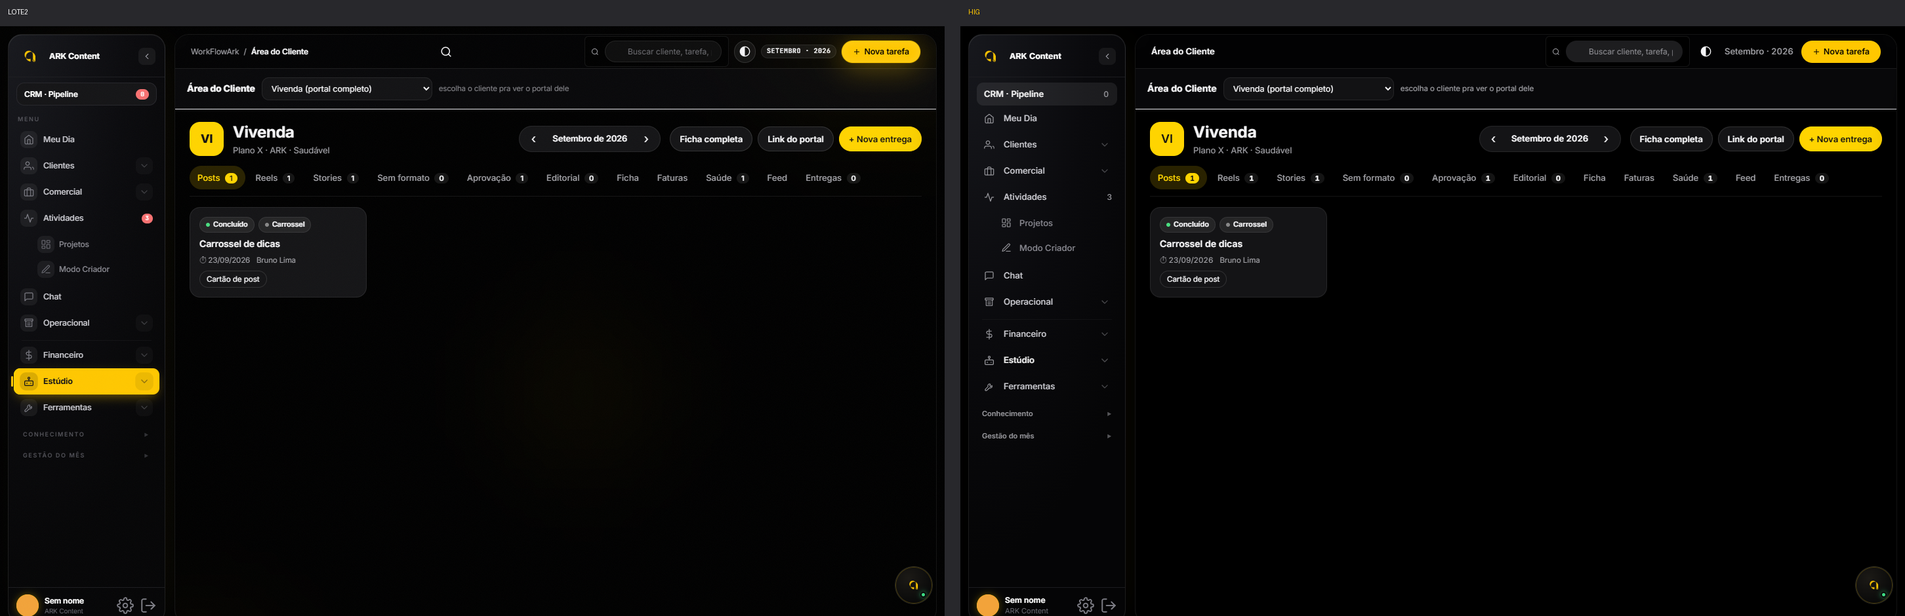
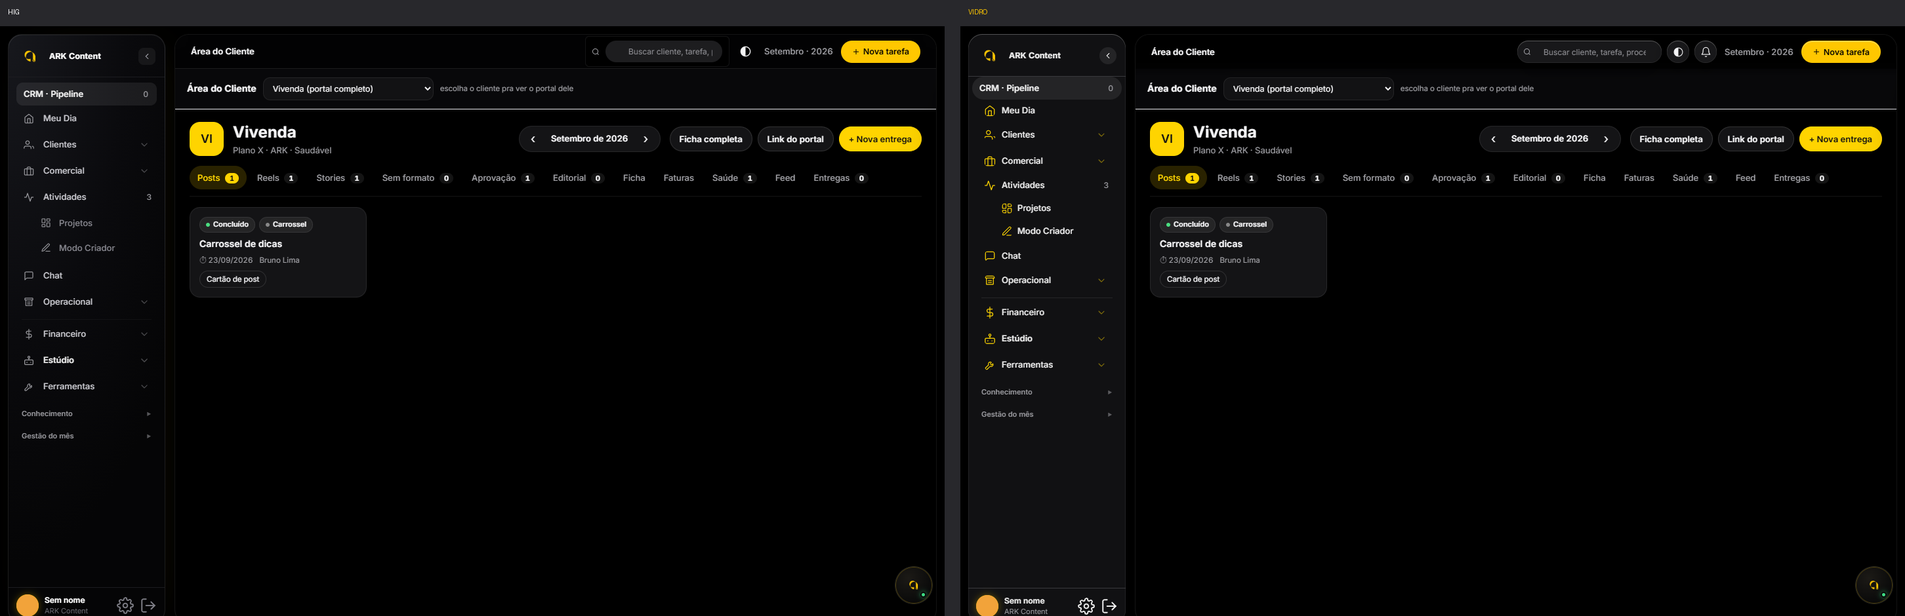
Liquid Glass na navegação e ícones no lugar de emoji, marcador 20260928b-liquid-glass
Referências oficiais da HIG (materials, sidebars, toolbars, sheets) em
Documents/WorkFlowArk-Next-2026-09-20/apple-ref.
- Sidebar em vidro flutuante que segue o tema (clara no claro, escura no
  escuro), linhas em cápsula, selecionado em cápsula amarela, ícones na cor
  de acento, traço 1,6.
- Barra do topo sem fundo, com desfoque de borda de rolagem; busca e
  botões de ícone em cápsulas de vidro; ação principal tingida.
- Sheet com cantos de 22 e fundo escurecido leve.
- workflowark-icones-20260928b.js troca o emoji que abre botões, rótulos
  de campo e cabeçalhos por símbolos próprios no traço do SF Symbols
  (a licença do SF Symbols não permite uso na web); texto de tarefas e
  posts não é tocado.
- Prova sem congelar animação (a saudação animada sumia na captura).
Teste deploy/teste-hig.py com regras de vidro, cápsula, saudação e
emoji: produção atual acusa 18 controles com emoji, branch fica em 0.
teste:mobile, tema, arrastar, confiabilidade, variantes, tokens e build OK.

Claude-Session: https://claude.ai/code/session_01KJbxYq7eWrqoC6iFvLdahp

diff --git a/public/workflowark-icones-20260928b.js b/public/workflowark-icones-20260928b.js
@@ -1,0 +1,133 @@
+/* WorkFlowArk · ícones no lugar de emoji na interface (28/09/2026).
+   HIG (icons, sf-symbols, buttons): ícone de interface é símbolo monocromático, de traço e peso consistentes, na cor
+   do texto; emoji fica só em conteúdo escrito por gente. SF Symbols não pode ser usado na web (licença da Apple),
+   então estes desenhos são próprios, no mesmo espírito: grade 24, traço 1.7, pontas e cantos arredondados.
+   Troca só o emoji que ABRE o texto de controles e rótulos (botão, rótulo de campo, cabeçalho de tabela),
+   nunca o texto de tarefas, posts ou mensagens. Roda no carregamento e em cada mudança da tela. */
+(function () {
+  'use strict';
+  var P = {
+    check: 'M5 12.5l4.5 4.5L19 7.5',
+    xmark: 'M6.5 6.5l11 11M17.5 6.5l-11 11',
+    play: '<path d="M8 5.8v12.4a.8.8 0 0 0 1.2.7l9.6-6.2a.8.8 0 0 0 0-1.4L9.2 5.1A.8.8 0 0 0 8 5.8z" fill="currentColor" stroke="none"/>',
+    pause: 'M9 5.5v13M15 5.5v13',
+    stop: '<rect x="6.5" y="6.5" width="11" height="11" rx="2" fill="currentColor" stroke="none"/>',
+    arrowCw: 'M19.5 12a7.5 7.5 0 1 1-2.2-5.3M19.5 4.5v4.2h-4.2',
+    arrowCcw: 'M4.5 12a7.5 7.5 0 1 0 2.2-5.3M4.5 4.5v4.2h4.2',
+    paperclip: 'M16.5 7.5l-7.3 7.3a2.2 2.2 0 0 0 3.1 3.1l7.4-7.4a4.2 4.2 0 0 0-6-6l-7.6 7.6a6.2 6.2 0 0 0 8.8 8.8l6-6',
+    film: '<rect x="3.5" y="5" width="17" height="14" rx="2.5"/><path d="M8 5v14M16 5v14M3.5 9.7H8M3.5 14.3H8M16 9.7h4.5M16 14.3h4.5"/>',
+    video: '<rect x="3" y="6.5" width="12.5" height="11" rx="2.5"/><path d="M15.5 10.5l5-3v9l-5-3"/>',
+    pencil: 'M4.5 19.5l1-4L15.8 5.2a2 2 0 0 1 2.9 0l.1.1a2 2 0 0 1 0 2.9L8.5 18.5z M13.8 7.2l3 3',
+    sparkles: 'M11 3.5l1.6 4.6 4.6 1.6-4.6 1.6L11 16l-1.6-4.7L4.8 9.7l4.6-1.6z M18 14.5l.8 2.2 2.2.8-2.2.8-.8 2.2-.8-2.2-2.2-.8 2.2-.8z',
+    speaker: 'M4.5 9.5h3.3l4.2-3.7v12.4l-4.2-3.7H4.5z M15.5 9.2a4 4 0 0 1 0 5.6 M18 6.8a7.3 7.3 0 0 1 0 10.4',
+    checkCircle: '<circle cx="12" cy="12" r="8.5"/><path d="M8.3 12.3l2.6 2.6 5-5.2"/>',
+    heart: 'M12 19.5s-7-4.4-7-9.6A3.9 3.9 0 0 1 12 7.6a3.9 3.9 0 0 1 7 2.3c0 5.2-7 9.6-7 9.6z',
+    download: 'M12 4.5v10M7.8 10.5l4.2 4.2 4.2-4.2M5 16v2.5A1.5 1.5 0 0 0 6.5 20h11a1.5 1.5 0 0 0 1.5-1.5V16',
+    upload: 'M12 15V5M7.8 9.2L12 5l4.2 4.2M5 16v2.5A1.5 1.5 0 0 0 6.5 20h11a1.5 1.5 0 0 0 1.5-1.5V16',
+    chart: 'M4.5 19.5h15M7.5 16v-4.5M12 16V8M16.5 16V5.5',
+    phone: '<rect x="7" y="3" width="10" height="18" rx="2.5"/><path d="M11 17.5h2"/>',
+    bell: 'M6.5 16v-5a5.5 5.5 0 0 1 11 0v5l1.5 2h-14z M10.2 20.2a2 2 0 0 0 3.6 0',
+    warning: 'M10.3 5.1a2 2 0 0 1 3.4 0l7 12a2 2 0 0 1-1.7 3H5a2 2 0 0 1-1.7-3z M12 10v3.5 M12 16.8h.01',
+    calendar: '<rect x="4" y="5.5" width="16" height="14.5" rx="2.5"/><path d="M4 10h16M8.5 3.5v4M15.5 3.5v4"/>',
+    clipboard: '<rect x="8.5" y="3.5" width="7" height="3.5" rx="1"/><path d="M8.5 5.2H6.8A1.8 1.8 0 0 0 5 7v12.2A1.8 1.8 0 0 0 6.8 21h10.4a1.8 1.8 0 0 0 1.8-1.8V7a1.8 1.8 0 0 0-1.8-1.8h-1.7"/>',
+    globe: '<circle cx="12" cy="12" r="8.5"/><path d="M3.5 12h17M12 3.5c2.5 2.6 3.5 5.4 3.5 8.5s-1 5.9-3.5 8.5c-2.5-2.6-3.5-5.4-3.5-8.5s1-5.9 3.5-8.5z"/>',
+    flame: 'M12 20.5a6 6 0 0 0 6-6c0-3.6-2.4-5.8-3.8-8.7-.8 1.9-1.8 2.8-2.9 3.2.2-2-.6-3.8-1.9-5.5-.6 4.2-5.4 6.2-5.4 11a6 6 0 0 0 6 6z',
+    link: 'M10.2 13.8a3.8 3.8 0 0 0 5.4 0l3-3a3.8 3.8 0 0 0-5.4-5.4l-1.1 1.1 M13.8 10.2a3.8 3.8 0 0 0-5.4 0l-3 3a3.8 3.8 0 0 0 5.4 5.4l1.1-1.1',
+    arrowUpRight: 'M7 17L17 7M9 7h8v8',
+    arrowRight: 'M5 12h14M13 6l6 6-6 6',
+    arrowLeft: 'M19 12H5M11 6l-6 6 6 6',
+    arrowTurn: 'M5 7v4a4 4 0 0 0 4 4h10M15 11l4 4-4 4',
+    bulb: 'M9.5 17.5h5M10.5 20.5h3M12 3.5a5.8 5.8 0 0 0-3.4 10.5c.6.5.9 1.1.9 1.8v.2h5v-.2c0-.7.3-1.3.9-1.8A5.8 5.8 0 0 0 12 3.5z',
+    doc: 'M7 3.5h6.5L18.5 8.5v12H7A1.5 1.5 0 0 1 5.5 19V5A1.5 1.5 0 0 1 7 3.5z M13.5 3.5v5h5',
+    send: 'M20.5 3.5L3.5 10.8l6.8 2.9 2.9 6.8z M10.3 13.7l4.5-4.5',
+    photo: '<rect x="3.5" y="5" width="17" height="14" rx="2.5"/><path d="M3.5 16l5-5 4.2 4.2 2.8-2.8 5 5"/><circle cx="15.5" cy="9" r="1.2"/>',
+    camera: 'M4 8.5h3l1.6-2.5h6.8L17 8.5h3a1 1 0 0 1 1 1V19a1 1 0 0 1-1 1H4a1 1 0 0 1-1-1V9.5a1 1 0 0 1 1-1z M12 16.8a3.3 3.3 0 1 0 0-6.6 3.3 3.3 0 0 0 0 6.6z',
+    envelope: '<rect x="3.5" y="5.5" width="17" height="13" rx="2.5"/><path d="M4 7l8 6 8-6"/>',
+    bubble: 'M5.5 5h13A1.5 1.5 0 0 1 20 6.5v8a1.5 1.5 0 0 1-1.5 1.5H10l-4.5 3.5V16A1.5 1.5 0 0 1 4 14.5v-8A1.5 1.5 0 0 1 5.5 5z',
+    pin: 'M12 20.5s-6-5.3-6-10.5a6 6 0 0 1 12 0c0 5.2-6 10.5-6 10.5z M12 12a2 2 0 1 0 0-4 2 2 0 0 0 0 4z',
+    timer: '<circle cx="12" cy="13" r="7.5"/><path d="M12 9v4.3l2.8 1.8M9.5 3h5"/>',
+    star: 'M12 4l2.4 5 5.4.6-4 3.7 1.1 5.4L12 16l-4.9 2.7 1.1-5.4-4-3.7 5.4-.6z',
+    mic: '<rect x="9" y="3.5" width="6" height="11" rx="3"/><path d="M5.5 11.5a6.5 6.5 0 0 0 13 0M12 18v2.5"/>',
+    wrench: 'M14.7 5.3a4.5 4.5 0 0 0 5 5.9l-8.9 8.9a2.1 2.1 0 0 1-3-3l8.9-8.9a4.5 4.5 0 0 0-2-2.9z',
+    list: 'M8.5 6.5h11M8.5 12h11M8.5 17.5h11M4.5 6.5h.01M4.5 12h.01M4.5 17.5h.01',
+    cart: 'M3.5 4.5h2l2.3 10.5h10.4L20.5 8H6.6 M9.5 19.5h.01M17 19.5h.01',
+    scale: 'M12 4.5v15M7 19.5h10M5 7.5h14M5 7.5l-2.5 5.5a2.5 2.5 0 0 0 5 0zM19 7.5l-2.5 5.5a2.5 2.5 0 0 0 5 0z',
+    printer: 'M7 9V4.5h10V9 M5.5 9h13A1.5 1.5 0 0 1 20 10.5v5a1.5 1.5 0 0 1-1.5 1.5H17 M7 17H5.5A1.5 1.5 0 0 1 4 15.5v-5A1.5 1.5 0 0 1 5.5 9 M7 14h10v6H7z',
+    person: 'M12 12a4 4 0 1 0 0-8 4 4 0 0 0 0 8z M4.5 20.5a7.5 7.5 0 0 1 15 0',
+    tag: 'M3.5 12.2V4.5a1 1 0 0 1 1-1h7.7l8.3 8.3a1.4 1.4 0 0 1 0 2l-6.4 6.4a1.4 1.4 0 0 1-2 0z M8 8h.01',
+    flag: 'M5.5 20.5V4.5 M5.5 5h11.5l-2.2 4 2.2 4H5.5',
+    building: 'M5 20.5V5.5A1.5 1.5 0 0 1 6.5 4h7A1.5 1.5 0 0 1 15 5.5v15 M15 9.5h3A1.5 1.5 0 0 1 19.5 11v9.5 M3.5 20.5h17 M8.5 8h3M8.5 11.5h3M8.5 15h3',
+    target: '<circle cx="12" cy="12" r="8.5"/><circle cx="12" cy="12" r="4.5"/><circle cx="12" cy="12" r=".8" fill="currentColor"/>',
+    compass: '<circle cx="12" cy="12" r="8.5"/><path d="M15.5 8.5l-2 5-5 2 2-5z"/>',
+    puzzle: 'M10 4.5a2 2 0 0 1 4 0V6h3.5A1.5 1.5 0 0 1 19 7.5V11h-1.5a2 2 0 0 0 0 4H19v3.5a1.5 1.5 0 0 1-1.5 1.5H14v-1.5a2 2 0 0 0-4 0V20H6.5A1.5 1.5 0 0 1 5 18.5V15h1.5a2 2 0 0 0 0-4H5V7.5A1.5 1.5 0 0 1 6.5 6H10z',
+    circle: '<circle cx="12" cy="12" r="4.5" fill="currentColor" stroke="none"/>',
+    circleOpen: '<circle cx="12" cy="12" r="7.5"/><circle cx="12" cy="12" r="2.5" fill="currentColor" stroke="none"/>',
+    trophy: 'M8 4.5h8v5a4 4 0 0 1-8 0z M8 6H4.5v1.5A3 3 0 0 0 8 10.5 M16 6h3.5v1.5A3 3 0 0 1 16 10.5 M12 13.5v3.5 M8.5 20h7l-.5-3h-6z',
+    number: 'M9.5 4.5l-2 15M16.5 4.5l-2 15M5 9h14.5M4.5 15h14.5'
+  };
+  // emoji que abre o texto -> [símbolo, tom opcional]
+  var M = {
+    '✓': 'check', '✔': 'check', '☑': 'checkCircle', '✅': 'checkCircle', '✕': 'xmark', '✖': 'xmark', '❌': 'xmark',
+    '▶': 'play', '⏸': 'pause', '⏹': 'stop', '↻': 'arrowCw', '🔄': 'arrowCw', '↺': 'arrowCcw',
+    '📎': 'paperclip', '🎬': 'film', '📹': 'video', '✍': 'pencil', '✎': 'pencil', '🧠': 'sparkles', '✨': 'sparkles', '✦': 'sparkles',
+    '🔊': 'speaker', '💾': 'download', '⬇': 'download', '⬆': 'upload', '📈': 'chart', '📊': 'chart', '📲': 'phone', '📱': 'phone',
+    '🔔': 'bell', '⚠': 'warning', '📅': 'calendar', '🗓': 'calendar', '📋': 'clipboard', '🌐': 'globe', '🔥': 'flame', '🔗': 'link',
+    '↗': 'arrowUpRight', '➜': 'arrowRight', '➤': 'send', '🔜': 'arrowRight', '←': 'arrowLeft', '↪': 'arrowTurn', '💡': 'bulb',
+    '📄': 'doc', '🚀': 'send', '📷': 'camera', '🖼': 'photo', '✉': 'envelope', '💬': 'bubble', '📌': 'pin', '📍': 'pin',
+    '⏱': 'timer', '🏆': 'trophy', '🏅': 'trophy', '⭐': 'star', '🎙': 'mic', '🛠': 'wrench', '☰': 'list', '🛒': 'cart', '⚖': 'scale',
+    '🖨': 'printer', '💚': ['heart', 'var(--green)'], '👤': 'person', '🏷': 'tag', '🚩': ['flag', 'var(--red)'], '🏢': 'building',
+    '🎯': 'target', '🧭': 'compass', '🧩': 'puzzle', '◎': 'circleOpen',
+    '🟢': ['circle', 'var(--green)'], '🟡': ['circle', 'var(--yel)'], '🔴': ['circle', 'var(--red)'], '⚫': ['circle', 'var(--mute)']
+  };
+  var chaves = Object.keys(M).sort(function (a, b) { return b.length - a.length; });
+  var RE = new RegExp('^(\\s*)(' + chaves.map(function (k) { return k.replace(/[.*+?^${}()|[\]\\]/g, '\\$&'); }).join('|') + ')\\uFE0F?\\s*');
+  var ALVO = 'button,label,summary,[role=button],th,h4,.tkl,.tb-btn,.dec-btn,.icobtn,.gbtn,.set-sect-t,.btn,.cc-btn,.set-tab';
+  var NS = 'http://www.w3.org/2000/svg';
+
+  function simbolo(nome, tom) {
+    var s = document.createElementNS(NS, 'svg');
+    s.setAttribute('viewBox', '0 0 24 24'); s.setAttribute('aria-hidden', 'true'); s.setAttribute('class', 'sfi');
+    s.setAttribute('fill', 'none'); s.setAttribute('stroke', 'currentColor'); s.setAttribute('stroke-width', '1.7');
+    s.setAttribute('stroke-linecap', 'round'); s.setAttribute('stroke-linejoin', 'round');
+    var d = P[nome];
+    s.innerHTML = d.charAt(0) === '<' ? d : '<path d="' + d + '"/>';
+    if (tom) s.style.color = tom;
+    return s;
+  }
+  function trocar(el) {
+    if (!el || el.nodeType !== 1 || el.closest('svg')) return;
+    var n = el.firstChild;
+    while (n && n.nodeType === 3 && !n.nodeValue.trim()) n = n.nextSibling;
+    if (!n || n.nodeType !== 3) return;
+    var m = n.nodeValue.match(RE);
+    if (!m) return;
+    var alvo = M[m[2]], nome = Array.isArray(alvo) ? alvo[0] : alvo, tom = Array.isArray(alvo) ? alvo[1] : null;
+    n.nodeValue = n.nodeValue.slice(m[0].length);
+    el.insertBefore(simbolo(nome, tom), n);
+    if (!n.nodeValue) n.nodeValue = '';
+  }
+  function varrer(raiz) {
+    if (!raiz || raiz.nodeType !== 1) return;
+    if (raiz.matches && raiz.matches(ALVO)) trocar(raiz);
+    var l = raiz.querySelectorAll ? raiz.querySelectorAll(ALVO) : [];
+    for (var i = 0; i < l.length; i++) trocar(l[i]);
+  }
+  var pend = [], agendado = false;
+  function processar() {
+    agendado = false; var lote = pend; pend = [];
+    for (var i = 0; i < lote.length; i++) varrer(lote[i]);
+  }
+  function iniciar() {
+    varrer(document.body);
+    new MutationObserver(function (ms) {
+      for (var i = 0; i < ms.length; i++) {
+        var m = ms[i];
+        if (m.type === 'characterData') { if (m.target.parentElement) pend.push(m.target.parentElement); }
+        else for (var j = 0; j < m.addedNodes.length; j++) { var a = m.addedNodes[j]; pend.push(a.nodeType === 1 ? a : a.parentElement); }
+      }
+      if (pend.length && !agendado) { agendado = true; requestAnimationFrame(processar); }
+    }).observe(document.body, { childList: true, subtree: true, characterData: true });
+  }
+  window.wfaIconeTrocar = varrer;
+  if (document.readyState === 'loading') document.addEventListener('DOMContentLoaded', iniciar); else iniciar();
+})();

diff --git a/public/workflowark-vidro-20260928b.css b/public/workflowark-vidro-20260928b.css
@@ -1,0 +1,84 @@
+/* WorkFlowArk · Liquid Glass na camada de navegação (28/09/2026).
+   Referências oficiais em Documents/WorkFlowArk-Next-2026-09-20/apple-ref (HIG materials, sidebars, toolbars, sheets).
+   Regras da Apple aplicadas: vidro só em navegação e controles, nunca no conteúdo; sidebar flutuante em vidro que
+   segue o tema; barra do topo sem fundo, com controles agrupados em cápsulas de vidro e o conteúdo passando por baixo;
+   item selecionado em cápsula na cor de acento; ícones da sidebar na cor de acento; ação principal tingida.
+   Carregada depois da camada HIG. Teste: python deploy/teste-hig.py */
+
+/* ---------- Sidebar: painel de vidro flutuante ---------- */
+:is(body.aura-dark,body.aura-light) .side{
+  background:var(--glass-side)!important;
+  -webkit-backdrop-filter:var(--glass-blur)!important;backdrop-filter:var(--glass-blur)!important;
+  box-shadow:var(--glass-rim),var(--glass-shadow)!important;
+  border:0!important;border-radius:22px!important;color:var(--side-txt)!important}
+:is(body.aura-dark,body.aura-light) .side :is(.navitem,.subitem,.nm,.brand-info){color:var(--side-txt)!important}
+:is(body.aura-dark,body.aura-light) .side .side-foot{color:var(--side-txt)!important}
+:is(body.aura-dark,body.aura-light) .side .side-foot :is(b,strong,.nm,.name,div,span):not(.av){color:inherit}
+:is(body.aura-dark,body.aura-light) .side .side-foot :is(.rl,small,.role){color:var(--side-mute)!important}
+/* Linhas: cápsula, 34 px, ícone na cor de acento (exemplo Landmarks da HIG) */
+:is(body.aura-dark,body.aura-light) .side :is(.navitem,.subitem){border-radius:999px!important;min-height:34px;margin-left:6px!important;margin-right:6px!important}
+:is(body.aura-dark,body.aura-light) .side :is(.navitem,.subitem) svg{color:var(--icon-accent)!important;stroke-width:1.6!important}
+/* só o ícone principal (primeiro svg) muda de tamanho; a seta do grupo mantém a posição dela */
+:is(body.aura-dark,body.aura-light) .side :is(.navitem,.subitem) > svg:first-child{width:18px!important;height:18px!important;min-width:18px!important;padding:0!important;box-sizing:content-box!important;flex:none!important}
+:is(body.aura-dark,body.aura-light) .side :is(.navitem,.subitem):not(.active):hover{background:var(--side-fill)!important}
+/* Selecionado: cápsula amarela, texto e ícone escuros (13:1) */
+:is(body.aura-dark,body.aura-light) .side .navitem.active[data-nav]:not([data-nav=""]),
+:is(body.aura-dark,body.aura-light) .side .subitem.active{
+  background:var(--yel)!important;color:var(--on-accent)!important;box-shadow:inset 0 1px 0 rgba(255,255,255,.35)!important}
+:is(body.aura-dark,body.aura-light) .side :is(.navitem.active[data-nav]:not([data-nav=""]),.subitem.active) *:not(svg):not(svg *){color:var(--on-accent)!important}
+:is(body.aura-dark,body.aura-light) .side .navitem.active[data-nav]:not([data-nav=""]) svg,
+:is(body.aura-dark,body.aura-light) .side .subitem.active svg{color:var(--on-accent)!important}
+/* Grupo do selecionado e grupos com subitem ativo: sem fundo */
+:is(body.aura-dark,body.aura-light) .side:has(.subitem.active) .navitem.active{background:transparent!important;box-shadow:none!important;color:var(--side-txt)!important}
+:is(body.aura-dark,body.aura-light) .side:has(.subitem.active) .navitem.active svg{color:var(--icon-accent)!important}
+:is(body.aura-dark,body.aura-light) .side .crm-pill{background:var(--side-fill)!important;color:var(--side-txt)!important;border-radius:999px!important;margin:0 6px!important}
+:is(body.aura-dark,body.aura-light) .side .side-collapse-btn{background:var(--side-fill)!important;color:var(--side-txt)!important;border:0!important;border-radius:999px!important}
+:is(body.aura-dark,body.aura-light) .side .brand-mark{background:transparent!important;box-shadow:none!important}
+
+/* ---------- Barra do topo: sem fundo; controles em cápsulas de vidro; conteúdo passa por baixo ---------- */
+:is(body.aura-dark,body.aura-light) .topbar{
+  background:transparent!important;border:0!important;box-shadow:none!important;
+  -webkit-backdrop-filter:none!important;backdrop-filter:none!important}
+/* Efeito de borda de rolagem (scroll-views): desfoque que some para baixo, só atrás da barra */
+:is(body.aura-dark,body.aura-light) .topbar::before{
+  content:"";position:absolute;inset:0 0 -18px 0;z-index:-1;pointer-events:none;
+  -webkit-backdrop-filter:blur(10px);backdrop-filter:blur(10px);
+  background:linear-gradient(to bottom,var(--bg) 0%,color-mix(in srgb,var(--bg) 70%,transparent) 55%,transparent 100%);
+  -webkit-mask-image:linear-gradient(to bottom,#000 55%,transparent);mask-image:linear-gradient(to bottom,#000 55%,transparent)}
+body.aura-light .topbar::before{background:linear-gradient(to bottom,#fff 0%,rgba(255,255,255,.7) 55%,transparent 100%)}
+:is(body.aura-dark,body.aura-light) .topbar :is(.tb-search,.tb-btn.tb-ic){
+  background:var(--glass)!important;
+  -webkit-backdrop-filter:var(--glass-blur)!important;backdrop-filter:var(--glass-blur)!important;
+  box-shadow:var(--glass-rim),var(--glass-shadow)!important;border:0!important;border-radius:999px!important}
+:is(body.aura-dark,body.aura-light) .topbar .tb-search{height:34px;align-self:center;padding-left:6px}
+:is(body.aura-dark,body.aura-light) .topbar .tb-search input{background:transparent!important;border:0!important;box-shadow:none!important;height:34px!important}
+:is(body.aura-dark,body.aura-light) .topbar .tb-btn.tb-ic{width:34px!important;height:34px!important;padding:0!important;display:inline-grid!important;place-items:center}
+:is(body.aura-dark,body.aura-light) .topbar .tb-btn.tb-ic svg{stroke-width:1.6!important;width:17px!important;height:17px!important}
+/* Ação principal tingida (toolbars-prominent-action-tinted): cápsula na cor de acento com borda de luz */
+:is(body.aura-dark,body.aura-light) .topbar .tb-btn:not(.tb-ic):not(.alt){
+  border-radius:999px!important;height:34px!important;box-shadow:inset 0 1px 0 rgba(255,255,255,.45),0 4px 14px rgba(0,0,0,.18)!important}
+
+/* ---------- Sheet (sheets-macos-notes): cartão sólido de cantos grandes sobre fundo escurecido ---------- */
+:is(body.aura-dark,body.aura-light) :is(.modal,.crm-mbox){border-radius:22px!important;box-shadow:0 30px 80px rgba(0,0,0,.35),var(--glass-rim)!important}
+:is(body.aura-dark,body.aura-light) :is(.modal-bg,.crm-modal){background:rgba(0,0,0,.28)!important;-webkit-backdrop-filter:blur(6px)!important;backdrop-filter:blur(6px)!important}
+
+/* ---------- Celular: a sidebar vira gaveta de vidro; mesmo material ---------- */
+@media (max-width:900px){
+  :is(body.aura-dark,body.aura-light) .side{border-radius:0 22px 22px 0!important}
+}
+
+/* ---------- Menos transparência: o vidro vira superfície sólida ---------- */
+@media (prefers-reduced-transparency:reduce){
+  body.aura-dark .side{background:#1C1C1F!important}
+  body.aura-light .side{background:#F2F2F7!important}
+  :is(body.aura-dark,body.aura-light) :is(.side,.topbar .tb-search,.topbar .tb-btn.tb-ic,.topbar::before){-webkit-backdrop-filter:none!important;backdrop-filter:none!important}
+  body.aura-dark .topbar :is(.tb-search,.tb-btn.tb-ic){background:#2C2C2E!important}
+  body.aura-light .topbar :is(.tb-search,.tb-btn.tb-ic){background:#fff!important}
+}
+:is(body.aura-dark,body.aura-light) .side:has(.subitem.active) .navitem.active *:not(svg):not(svg *):not(.badge){color:var(--side-txt)!important}
+
+/* ---------- Ícones de interface (workflowark-icones): na cor do texto, 1,15 em, alinhados ao texto ---------- */
+.sfi{width:1.15em;height:1.15em;flex:none;vertical-align:-.2em;margin-right:.38em;display:inline-block}
+:is(.tb-btn,.dec-btn,.icobtn,.gbtn,button) .sfi:only-child{margin-right:0}
+/* divisórias da sidebar com a cor de separador do sistema, não preto */
+:is(body.aura-dark,body.aura-light) .side :is(.side-head,.side-foot,hr,.nav-sep){border-color:var(--sep)!important}

diff --git a/public/workflowark-tokens-20260927a.css b/public/workflowark-tokens-20260927a.css
@@ -40,7 +40,7 @@
   --t-fast:.14s;
   --t:.22s;
   --t-slow:.4s;
-  --glass:saturate(180%) blur(20px);
+  --glass:rgba(255,255,255,.62);
   --gold:#caa64a;
   --shadow-1:0 1px 2px rgba(11,11,12,.04),0 1px 3px rgba(11,11,12,.06);
   --surface:#ffffff;
@@ -76,6 +76,11 @@
   --elev:#ffffff;
   --hero:#1C1C1E;
   --sep:rgba(60,60,67,.18);
+  --glass-side:rgba(246,246,248,.72);
+  --glass-blur:blur(24px) saturate(180%);
+  --glass-rim:inset 0 0 0 .5px rgba(0,0,0,.08), inset 0 1px 0 rgba(255,255,255,.9);
+  --glass-shadow:0 4px 16px rgba(0,0,0,.08), 0 1px 3px rgba(0,0,0,.06);
+  --icon-accent:#A16A00;
 }
 body.aura-dark{
   --bg:#000000;
@@ -111,14 +116,24 @@ body.aura-dark{
   --elev:#1C1C1F;
   --hero:var(--surface);
   --sep:rgba(84,84,88,.6);
+  --glass:rgba(44,44,48,.55);
+  --glass-side:rgba(28,28,31,.62);
+  --glass-rim:inset 0 0 0 .5px rgba(255,255,255,.14), inset 0 1px 0 rgba(255,255,255,.22);
+  --glass-shadow:0 8px 28px rgba(0,0,0,.38), 0 1px 3px rgba(0,0,0,.3);
+  --icon-accent:#FFD600;
 }
 /* Aumentar contraste do sistema (accessibility): bordas e texto secundário mais fortes */
 @media (prefers-contrast:more){
   body.aura-dark{--line:rgba(255,255,255,.28);--mute:#C7C7CC}
   body.aura-light{--line:rgba(0,0,0,.28);--mute:#48484A}
 }
-/* Sidebar: escura nos dois temas, então tem paleta própria (texto 4.5:1 sobre o fundo dela) */
-.side{
+/* Sidebar em vidro que segue o tema (clara no claro, escura no escuro), como a sidebar do macOS */
+body.aura-light .side{
+  --side-txt:#1D1D1F;
+  --side-mute:#6C6C70;
+  --side-fill:rgba(0,0,0,.05);
+}
+body.aura-dark .side{
   --side-txt:rgba(255,255,255,.92);
   --side-mute:#98989D;
   --side-fill:rgba(255,255,255,.08);

diff --git a/public/workflowark.html b/public/workflowark.html
@@ -1,4 +1,4 @@
-<!-- build 20260928a-hig-apple -->
+<!-- build 20260928b-liquid-glass -->
 <html lang="pt-BR">
 <head>
 <meta charset="utf-8">
@@ -4750,5 +4750,7 @@ function wfaSetTheme(t){
 <script type="module">import * as F from "./workflowark-financeiro-20260926a.js";window.WFA_FIN=F;try{fxRender();}catch(e){}try{iniRender();}catch(e){}</script>
 <script src="workflowark-cliente-20260922d.js" defer></script>
 <link rel="stylesheet" href="workflowark-hig-20260928a.css">
+<link rel="stylesheet" href="workflowark-vidro-20260928b.css">
+<script src="workflowark-icones-20260928b.js" defer></script>
 </body>
 </html>

diff --git a/deploy/teste-hig.py b/deploy/teste-hig.py
@@ -44,7 +44,13 @@ MEDIR = r"""() => {
     return getComputedStyle(document.body).backgroundColor; };
   const visivel = el => { const r = el.getBoundingClientRect(); if (r.width < 2 || r.height < 2 || r.bottom < 0 || r.top > innerHeight || r.right < 0 || r.left > innerWidth) return false;
     for (let e = el; e; e = e.parentElement) { const s = getComputedStyle(e); if (s.display === 'none' || s.visibility === 'hidden' || +s.opacity < .2) return false; } return true; };
-  const q = { pequeno: [], caixaAlta: [], pesado: [], mono: [], contraste: [], amareloSidebar: 0 };
+  const q = { pequeno: [], caixaAlta: [], pesado: [], mono: [], contraste: [], amareloSidebar: 0, emoji: [] };
+  const EMO = /^\s*[←-➿⬀-⯿\u{1F300}-\u{1FAFF}]/u;
+  const topo0 = document.querySelector('.modal-bg.open, .modal.open, #task-detail.open, .settings-modal.open');
+  for (const el of document.querySelectorAll('button,label,summary,th,h4,.tkl,.tb-btn,.dec-btn,.icobtn,.gbtn,.set-sect-t,.set-tab')) {
+    if (topo0 && !topo0.contains(el) && !el.closest('.side')) continue;
+    let n = el.firstChild; while (n && n.nodeType === 3 && !n.nodeValue.trim()) n = n.nextSibling;
+    if (n && n.nodeType === 3 && EMO.test(n.nodeValue) && visivel(el)) q.emoji.push(el.tagName + ' "' + n.nodeValue.trim().slice(0, 20) + '"'); }
   const topo = document.querySelector('.modal-bg.open, .modal.open, #task-detail.open, .settings-modal.open');
   for (const el of document.querySelectorAll('body *')) {
     if (topo && !topo.contains(el) && !el.closest('.side')) continue;
@@ -80,6 +86,22 @@ with sync_playwright() as pw:
             p.evaluate("n => { const el = document.querySelector('[data-nav=' + n + ']'); el && el.click(); }", n); p.wait_for_timeout(700); tema_certo()
         telas = []
         nav('dashboard'); telas.append(('inicio', p.evaluate(MEDIR)))
+        # saudação do Meu Dia: texto com gradiente não entra na medida geral; confere a cor de preenchimento real
+        sd = p.evaluate('''() => { const e = document.querySelector('.aura-saud'); if (!e || !e.getBoundingClientRect().width) return null;
+          const s = getComputedStyle(e); let f = s.webkitTextFillColor; const clip = s.backgroundClip === 'text' || s.webkitBackgroundClip === 'text';
+          const bgi = s.backgroundImage; let bg = null; for (let x = e.parentElement; x; x = x.parentElement) { const c = getComputedStyle(x).backgroundColor; const m = c.match(/[\\d.]+/g); if (m && (m.length < 4 || +m[3] > .9)) { bg = c; break; } }
+          return { fill: f, clip, bgi: bgi.slice(0, 60), cor: s.color, bg }; }''')
+        if sd:
+            import re as _re
+            def _lum(c):
+                v = [float(x) / 255 for x in _re.findall(r'[\d.]+', c)[:3]]
+                v = [x / 12.92 if x <= .03928 else ((x + .055) / 1.055) ** 2.4 for x in v]; return .2126 * v[0] + .7152 * v[1] + .0722 * v[2]
+            if sd['clip'] and sd['bgi'] != 'none':
+                falhas.append('inicio-%s saudação: texto em gradiente recortado, cor real não garantida (%s)' % (tema, sd['bgi']))
+            else:
+                cor = sd['fill'] if sd['fill'] and not sd['fill'].endswith(', 0)') else sd['cor']
+                a1, b1 = _lum(cor), _lum(sd['bg'] or 'rgb(0,0,0)'); cr = (max(a1, b1) + .05) / (min(a1, b1) + .05)
+                if cr < 3: falhas.append('inicio-%s saudação: contraste %.2f (%s em %s)' % (tema, cr, cor, sd['bg']))
         nav('tarefas'); telas.append(('kanban', p.evaluate(MEDIR)))
         # subitens: o grupo não pode ganhar amarelo junto com a folha (sidebars: um destaque só)
         nav('jornada'); telas.append(('sub-jornada', p.evaluate(MEDIR)))
@@ -94,10 +116,26 @@ with sync_playwright() as pw:
         if av is not None and av < 16:
             falhas.append('cliente-%s avatar: iniciais do avatar grande em %spx (mínimo 16)' % (tema, av))
         p.evaluate("() => { try { openSettings(); } catch (e) {} }"); p.wait_for_timeout(500); tema_certo(); telas.append(('config', p.evaluate(MEDIR)))
+        # Liquid Glass só na navegação (materials, sidebars, toolbars): vidro na sidebar e nos controles do topo,
+        # barra do topo sem fundo chapado, item selecionado em cápsula
+        vid = p.evaluate('''() => {
+          const bf = q => { const e = document.querySelector(q); return e ? getComputedStyle(e).backdropFilter : 'ausente'; };
+          const tb = getComputedStyle(document.querySelector('.topbar'));
+          const sel = document.querySelector('.side .subitem.active, .side .navitem.active[data-nav]:not([data-nav=""])');
+          let capsula = 'sem item'; if (sel) { const r = sel.getBoundingClientRect(); capsula = parseFloat(getComputedStyle(sel).borderTopLeftRadius) >= r.height / 2 - 1; }
+          return { side: bf('.side'), busca: bf('.tb-search'), icone: bf('.topbar .tb-btn.tb-ic'), topo: tb.backgroundColor, capsula: capsula };
+        }''')
+        for k in ('side', 'busca', 'icone'):
+            if 'blur' not in (vid[k] or ''):
+                falhas.append('%s vidro: %s sem desfoque de fundo (%s)' % (tema, k, vid[k]))
+        if vid['topo'] not in ('rgba(0, 0, 0, 0)', 'transparent'):
+            falhas.append('%s vidro: barra do topo com fundo chapado %s' % (tema, vid['topo']))
+        if vid['capsula'] is not True:
+            falhas.append('%s vidro: item selecionado não é cápsula (%s)' % (tema, vid['capsula']))
         for nome, q in telas:
             chave = '%s-%s' % (nome, tema)
             total[chave] = {k: (v if isinstance(v, int) else len(v)) for k, v in q.items()}
-            for regra, lim in (('pequeno', 0), ('caixaAlta', 0), ('pesado', 0), ('mono', 0), ('contraste', 0)):
+            for regra, lim in (('pequeno', 0), ('caixaAlta', 0), ('pesado', 0), ('mono', 0), ('contraste', 0), ('emoji', 0)):
                 if len(q[regra]) > lim:
                     falhas.append('%s %s: %d (%s)' % (chave, regra, len(q[regra]), ' | '.join(q[regra][:40])))
             if q['amareloSidebar'] > 1:

diff --git a/deploy/prova-tokens.py b/deploy/prova-tokens.py
@@ -91,7 +91,7 @@ with sync_playwright() as pw:
         ctx.add_init_script('try{%s}catch(e){}' % seed(tema))
         p = ctx.new_page(); p.on('pageerror', lambda e: erros.append(str(e)[:140]))
         p.goto(base + '/workflowark.html', wait_until='load'); p.wait_for_timeout(3500)
-        p.add_style_tag(content='*,*::before,*::after{animation:none!important;transition:none!important;caret-color:transparent!important}')
+        p.add_style_tag(content='*,*::before,*::after{transition:none!important;caret-color:transparent!important}')
         tema_certo(p, tema)
         if tema == 'dark':
             print('marcador:', p.evaluate("() => (document.documentElement.outerHTML.match(/build [0-9a-z-]+/)||[''])[0]"))
@@ -103,7 +103,7 @@ with sync_playwright() as pw:
         p.evaluate("() => { try { openTaskDetail('t1'); } catch (e) {} }"); p.wait_for_timeout(700); foto('tarefa')
         p.keyboard.press('Escape'); p.evaluate("() => { try { closeTaskDetail && closeTaskDetail(); } catch (e) {} }"); p.wait_for_timeout(300)
         p.goto(base + '/workflowark.html', wait_until='load'); p.wait_for_timeout(3000)
-        p.add_style_tag(content='*,*::before,*::after{animation:none!important;transition:none!important;caret-color:transparent!important}')
+        p.add_style_tag(content='*,*::before,*::after{transition:none!important;caret-color:transparent!important}')
         nav(p, 'cliente')
         p.evaluate("() => { const s = document.getElementById('cli-area-sel'); if (s) { s.value = 'vivenda'; if (typeof cliAreaSelect === 'function') cliAreaSelect('vivenda'); else s.dispatchEvent(new Event('change')); } }"); p.wait_for_timeout(600)
         foto('cliente')
@@ -113,7 +113,7 @@ with sync_playwright() as pw:
     ctx = b.new_context(viewport={'width': 390, 'height': 844}, device_scale_factor=2, reduced_motion='reduce')
     ctx.add_init_script('try{%s}catch(e){}' % seed('dark'))
     p = ctx.new_page(); p.goto(base + '/workflowark.html', wait_until='load'); p.wait_for_timeout(3500)
-    p.add_style_tag(content='*,*::before,*::after{animation:none!important;transition:none!important}')
+    p.add_style_tag(content='*,*::before,*::after{transition:none!important}')
     tema_certo(p, 'dark'); p.screenshot(path='%s/%s-inicio-celular.png' % (PASTA, fase))
     print('erros de JS:', erros or 'nenhum')
     b.close()
